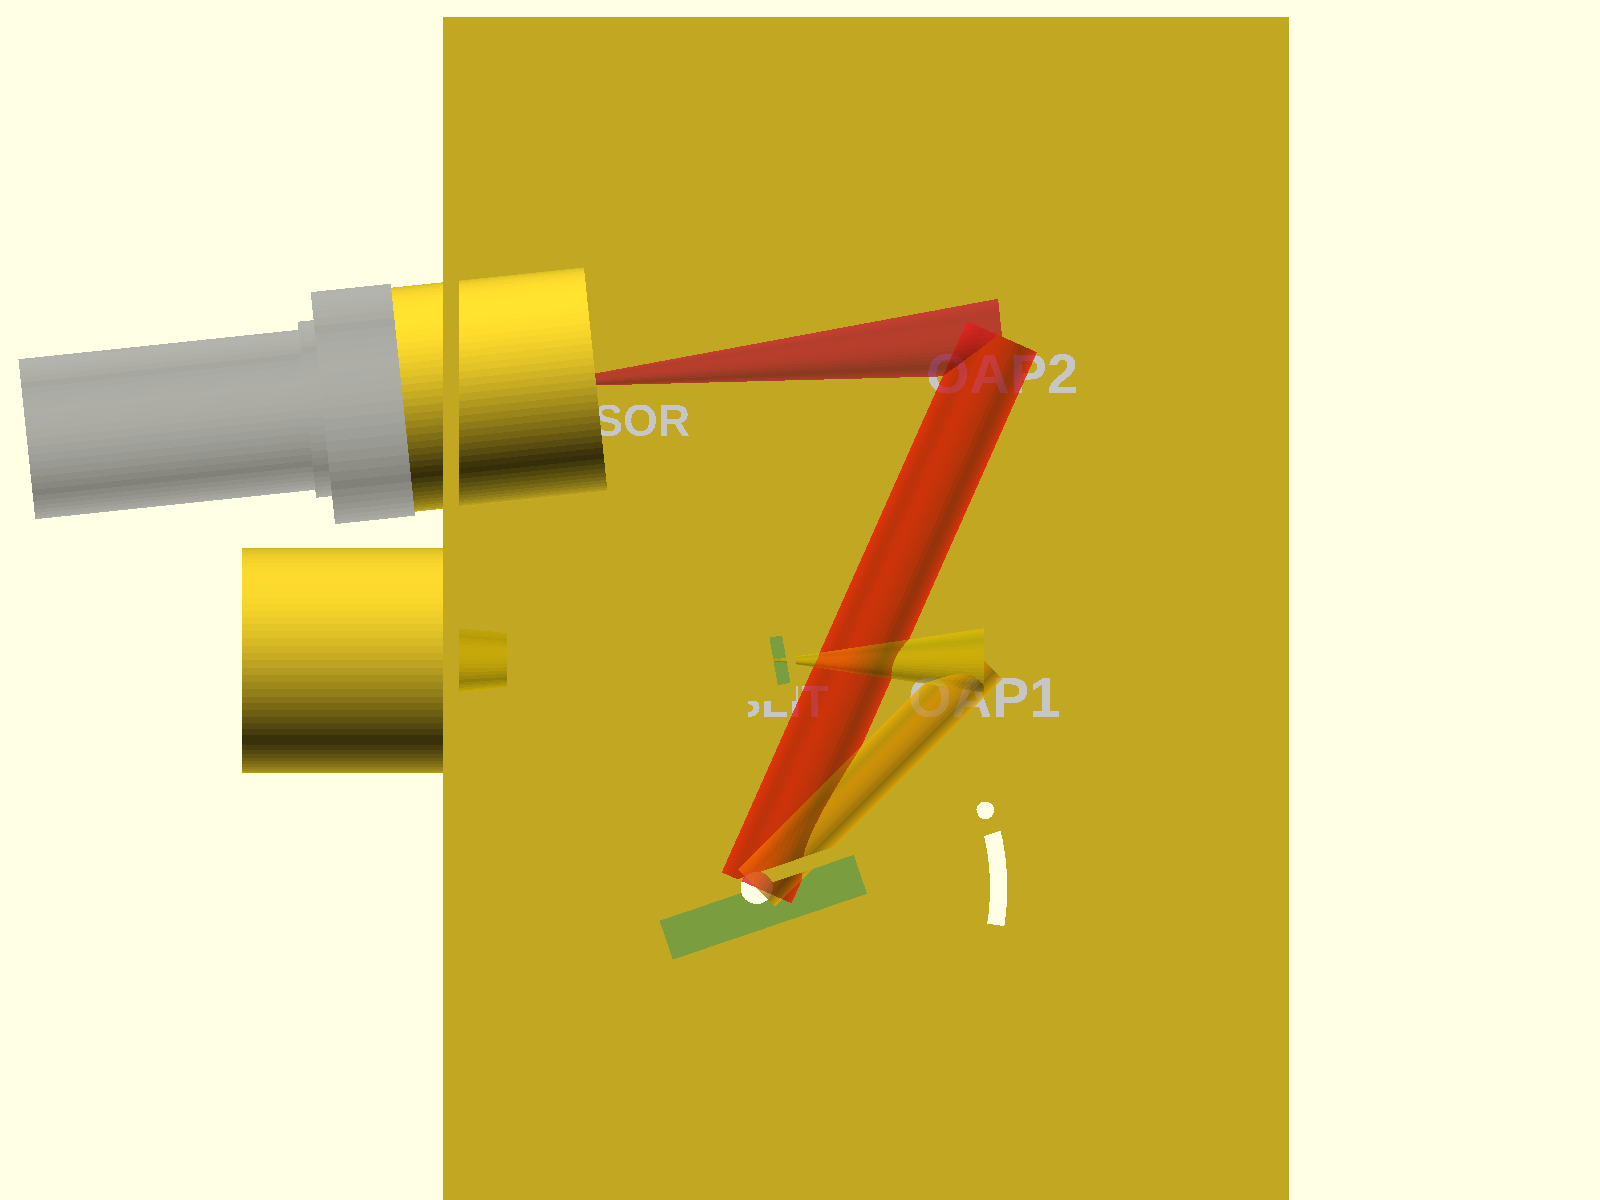
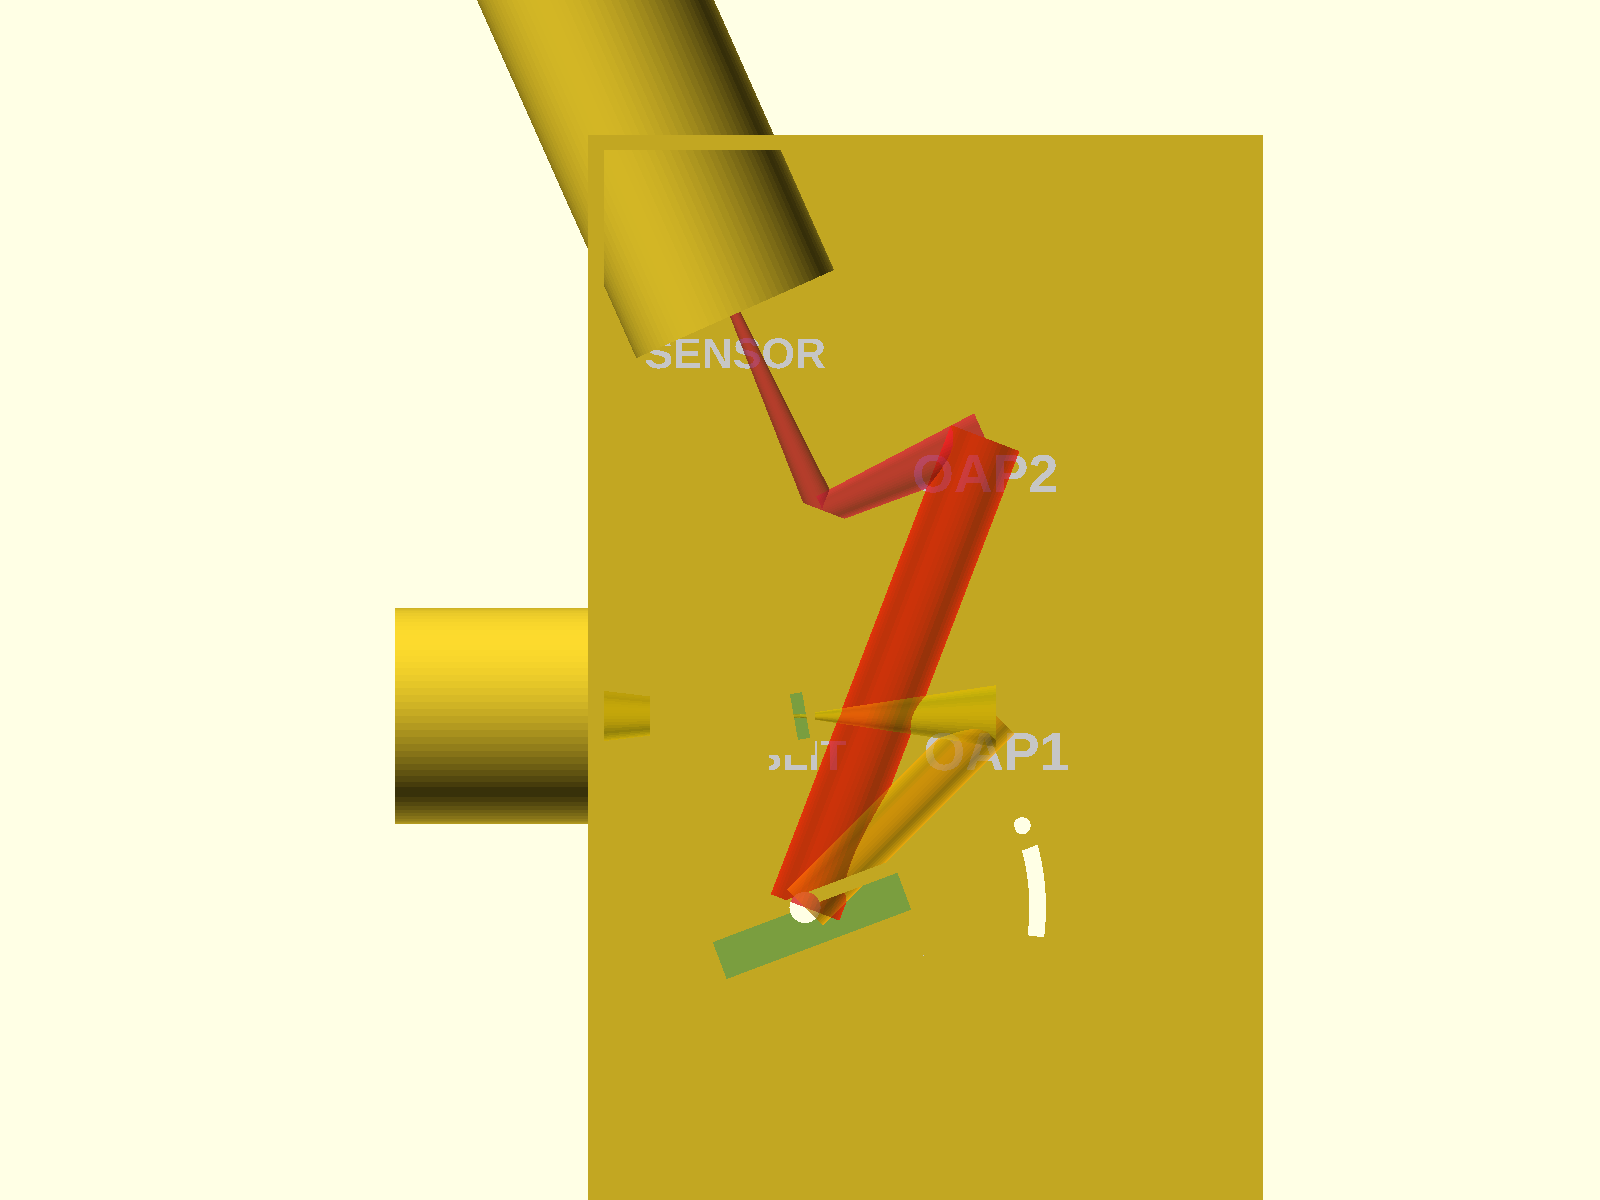
Freeze budget v3 (fold4 flat) + production periscope layout renders
CHOSEN = T_budget_ha dev24/Lg70/Lc130 + fold4(s=46, delta=+90): the
45/45 MPD124+MPD144 pair with one O25.4 silver flat in a FIXED printed
seat (unbounded tilt tolerance, three nylon grub screws, no adjusters).
Guard passes: worst core +4.4mm, fan +1.7mm, edge blur 9.3um, R 27.7k,
~L615 total. Camera exits the top back corner at 114 deg, fully
decoupled from the telescope. body_geom/scad/previews regenerated;
BUDGET.md rev 4, MECH.md updated.

prod_layout.py/scad: raytraced layout visualization of the two-level
production periscope (dev17, Lg315, Lc255, lift2 s=65 h=80) with solid
full-fan-width beams, FSQ-85 OTA, and IMX571 at 17.5mm back focus.
Case CAD deferred at user request.

Changed region(s): [[0.0, 0.0, 0.8125, 1.0]]

diff --git a/design/prod_layout.py b/design/prod_layout.py
@@ -1,0 +1,93 @@
+#!/usr/bin/env python3
+"""Emit prod_layout.scad: raytraced-geometry visualization of the
+two-level production periscope design (FOLDS.md winner) with the FSQ-85
+OTA and the IMX571 camera at 17.5 mm back focus. Elements and SOLID
+full-fan-width light paths; layout render, not the case CAD."""
+import math
+from raytrace import Design, CONFIGS, add, sub, mul, dot, norm
+
+cfg = CONFIGS["B_edmund_30s-45"]
+d = Design(lines_per_mm=2400.0, order=1, dev=17.0, s2=-1.0,
+           Lg=315.0, Lc=255.0, lift2=dict(s=65.0, h=80.0), **cfg)
+d.build(656.28)
+
+BH = 60.0
+
+
+def P(p):   # world (x=vert, y, z) -> model (X=z, Y=y, Z=x+BH)
+    return (p[2], p[1], p[0] + BH)
+
+
+u = 1.0 / (2.0 * 6.9) + 656.28e-6 / 7e-3
+r_col = min(d.rfl1 * u, 0.9 * 50.8 / 2)
+ca, cb = abs(dot(d.c1, d.gr.n)), abs(dot(d.c2, d.gr.n))
+r3 = min(r_col / ca, 25.0) * cb
+r3b = min(r3 + d.Lc * (5e-6 / (d.sigma * cb)), 0.9 * 76.2 / 2)
+QA, QB = d.lift2A[0], d.lift2B[0]
+
+out = ["// AUTO-GENERATED by prod_layout.py",
+       "$fn = 72;",
+       "module beam(a, b, r1, r2, col) { color(col, 0.5) hull() {",
+       "  translate(a) sphere(r1); translate(b) sphere(r2); } }",
+       "module disc(p, n, dia, t, col, alpha = 1.0) {",
+       "  color(col, alpha) translate(p)",
+       "    rotate(a = acos(n[2] / norm(n)), v = (abs(n[0]) + abs(n[1])",
+       "      < 1e-6) ? [1, 0, 0] : [-n[1], n[0], 0])",
+       "    cylinder(h = t, d = dia, center = true); }"]
+
+
+def disc(p_model, n_world, dia, t, col, alpha=1.0):
+    n = (n_world[2], n_world[1], n_world[0])
+    out.append(f"disc([{p_model[0]:.1f},{p_model[1]:.1f},{p_model[2]:.1f}],"
+               f" [{n[0]:.4f},{n[1]:.4f},{n[2]:.4f}], {dia}, {t}, "
+               f"\"{col}\", {alpha});")
+
+
+def beam(a, b, r1, r2, col):
+    pa, pb = P(a), P(b)
+    out.append(f"beam([{pa[0]:.1f},{pa[1]:.1f},{pa[2]:.1f}], "
+               f"[{pb[0]:.1f},{pb[1]:.1f},{pb[2]:.1f}], {r1:.1f}, {r2:.1f},"
+               f" \"{col}\");")
+
+
+# level cue: slim posts under the upper-level elements
+for p in (d.G, d.C2):
+    q = P(p)
+    out.append(f"color(\"dimgray\", 0.6) translate([{q[0]:.0f}, {q[1]:.0f},"
+               f" 0]) cylinder(h = {q[2]-30:.0f}, d = 8);")
+
+# light path
+beam(add(d.S, (0.0, 0.0, -180.0)), d.S, 24.0, 0.6, "gold")
+beam(d.S, d.C1, 0.6, r_col, "gold")
+beam(d.C1, QA, r_col, r_col, "orange")
+beam(QA, QB, r_col, r_col, "mediumpurple")
+beam(QB, d.G, r_col, r_col, "orange")
+beam(d.G, d.C2, r3, r3b, "red")
+beam(d.C2, d.F2, r3b, 1.0, "crimson")
+
+# elements
+disc(P(d.S), (0.0, 0.0, 1.0), 18, 2, "green")
+disc(P(d.C1), norm(sub(norm(sub((0, 0, 0), d.C1)), d.c1)), 50.8, 10,
+     "orangered")
+disc(P(QA), d.lift2A[1], 50.8, 9, "silver")
+disc(P(QB), d.lift2B[1], 50.8, 9, "silver")
+disc(P(d.G), d.gr.n, 55, 9, "royalblue")
+disc(P(d.C2), norm(sub(d.df, d.c2)), 76.2, 12, "orangered")
+
+# FSQ-85 OTA on the entry axis (focal plane = slit)
+for (z0, z1, dia, col) in ((-620, -520, 112, "lightsteelblue"),
+                           (-520, -190, 95, "white"),
+                           (-190, -130, 72, "gainsboro"),
+                           (-130, -88, 64, "silver"),
+                           (-88, -40, 56, "dimgray")):
+    out.append(f"color(\"{col}\") translate([{z0}, 0, {BH}]) "
+               f"rotate([0, 90, 0]) cylinder(h = {z1 - z0}, d = {dia});")
+
+# IMX571 camera: flange 10 mm thick ending 17.5 mm before the sensor,
+# then the 80 mm barrel; sensor plane marked black
+disc(P(d.F2), mul(d.df, -1.0), 26, 2, "black")
+disc(P(add(d.F2, mul(d.df, -12.5))), d.df, 100, 10, "darkslategray")
+disc(P(add(d.F2, mul(d.df, 46.5))), d.df, 80, 108, "dimgray")
+open("prod_layout.scad", "w").write("\n".join(out) + "\n")
+print("written; F2 model", [round(v) for v in P(d.F2)],
+      "G", [round(v) for v in P(d.G)])

diff --git a/design/body_export.py b/design/body_export.py
@@ -14,7 +14,7 @@ from raytrace import Design, CONFIGS, CHOSEN, dot
 
 cfg = CONFIGS[CHOSEN["config"]]
 d = Design(lines_per_mm=2400.0, order=1, dev=CHOSEN["dev"], s2=CHOSEN["s2"],
-           Lg=CHOSEN["Lg"], Lc=CHOSEN["Lc"], **cfg)
+           Lg=CHOSEN["Lg"], Lc=CHOSEN["Lc"], fold4=CHOSEN.get("fold4"), **cfg)
 d.build(656.28)
 
 
@@ -43,7 +43,12 @@ lines = [
     f"c0Ang   = {ang(d.c0):.3f};   // slit -> OAP1 chief",
     f"c1Ang   = {ang(d.c1):.3f};   // OAP1 -> grating (collimated)",
     f"c2Ang   = {ang(d.c2):.3f};   // grating -> OAP2 (diffracted)",
-    f"dfAng   = {ang(d.df):.3f};   // OAP2 -> sensor (focused)",
+    f"df0Ang  = {ang(d.df0):.3f};   // OAP2 -> fold flat (focused)",
+    f"dfAng   = {ang(d.df):.3f};   // final leg -> sensor",
+    f"flat4P  = [{b(d.flat4[0])[0]:.2f}, {b(d.flat4[0])[1]:.2f}];"
+    if d.flat4 else "flat4P = undef;",
+    f"flat4NormAng = {ang(d.flat4[1]):.3f}; // seat face normal"
+    if d.flat4 else "flat4NormAng = undef;",
     f"gratNormAng = {ang(d.gr.n):.3f}; // grating normal at Ha tuning",
     f"rfl1 = {cfg['rfl1']}; rfl2 = {cfg['rfl2']};",
 ]
@@ -56,7 +61,8 @@ tunings = []
 for (label, lam, lpmm) in [("CaK", 393.37, 2400.0), ("Ha", 656.28, 2400.0),
                            ("He1083", 1083.0, 1200.0)]:
     dl = Design(lines_per_mm=lpmm, order=1, dev=CHOSEN["dev"],
-                s2=CHOSEN["s2"], Lg=CHOSEN["Lg"], Lc=CHOSEN["Lc"], **cfg)
+                s2=CHOSEN["s2"], Lg=CHOSEN["Lg"], Lc=CHOSEN["Lc"],
+                fold4=CHOSEN.get("fold4"), **cfg)
     dl.build(lam)
     tunings.append((label, ang(dl.gr.n)))
 lines.append("gratNormAngs = [" +
@@ -69,8 +75,8 @@ lines.append("// tuning detents: " +
 # from the camera corridor. beam3 must cross by = 25, so the vane can only
 # begin downstream of the crossing plus the fan half-width plus margin.
 import mech
-guard_dims = {k: CHOSEN[k] for k in ("colD", "camD", "grat_w",
-                                     "slab1_w", "slab2_w") if k in CHOSEN}
+guard_dims = {k: CHOSEN[k] for k in ("colD", "camD", "grat_w", "slab1_w",
+                                     "slab2_w", "flat4_d") if k in CHOSEN}
 VANE_Y, VANE_T, VANE_END = 25.0, 3.0, 68.0
 gb, c2b2 = b(d.G), bdir(d.c2)
 t_cross = (VANE_Y - gb[1]) / c2b2[1]

diff --git a/design/raytrace.py b/design/raytrace.py
@@ -409,17 +409,20 @@ CONFIGS = {
 }
 
 # Chosen geometry for the CURRENT BUILD. Production broadband design:
-#   config="B_edmund_30s-45", dev=20, s2=-1, Lg=117, Lc=240 -- CORRIDOR
-#   INFEASIBLE per mech.py (MECH.md); production re-freeze pending.
-# Active: Ha-only budget prototype, Thorlabs silver MPD124 (45 deg
-# collimator) + MPD246 (60 deg camera), 7um slit, Shelyak 25mm grating,
-# IMX678 camera. FROZEN 2026-08-02 by mech.py constrained sweep: worst
-# core clearance +3.2mm, fan +0.1mm, edge blur 12.9um (+-0.5nm), exit
-# 6 deg off telescope-parallel at sensor y=70. The extra keys are the
-# mechanical envelope inputs mech.py/body_export.py verify against.
-CHOSEN = dict(config="T_budget_ha_v2", dev=21.0, s2=-1.0,
-              Lg=80.0, Lc=150.0, colD=25.4, camD=50.8,
-              grat_w=25.0, slab1_w=54.0, slab2_w=86.0)
+#   two-floor periscope layout, FOLDS.md (dev 17, Lg 315, Lc 255,
+#   lift2 s=65 h=80) -- CAD started in prod_case.scad, not yet frozen.
+# Active: Ha-only budget prototype v3 (FROZEN 2026-08-02, FOLDS.md):
+# Thorlabs silver MPD124 + MPD144 (45/45) + one O25.4 protected-silver
+# flat 46 mm after OAP2 folding the focused beam +90 deg away from the
+# telescope. Worst core clearance +4.4 mm, fan +1.7 mm, edge blur
+# 9.3 um (+-0.5 nm), R~27.7k slit-limited, ~L467 optics. The flat sits
+# in a FIXED printed seat: fold_tol.py shows its tilt tolerance is
+# unbounded (pure image steering), so it gets no adjusters.
+# Extra keys are the mechanical envelope inputs mech/body_export verify.
+CHOSEN = dict(config="T_budget_ha", dev=24.0, s2=-1.0,
+              Lg=70.0, Lc=130.0, fold4=dict(s=46.0, delta=90.0),
+              colD=25.4, camD=25.4, grat_w=25.0,
+              slab1_w=54.0, slab2_w=54.0, flat4_d=25.4)
 
 LINES = [  # (label, lambda nm, lines/mm, order)
     ("CaK 393", 393.37, 2400.0, 1),

diff --git a/design/mech.py b/design/mech.py
@@ -462,10 +462,11 @@ def build_chosen(lam_nm=656.28):
     """Returns (design, dims) for the CHOSEN geometry."""
     cfg = CONFIGS[CHOSEN["config"]]
     d = Design(lines_per_mm=2400.0, order=1, dev=CHOSEN["dev"],
-               s2=CHOSEN["s2"], Lg=CHOSEN["Lg"], Lc=CHOSEN["Lc"], **cfg)
+               s2=CHOSEN["s2"], Lg=CHOSEN["Lg"], Lc=CHOSEN["Lc"],
+               fold4=CHOSEN.get("fold4"), **cfg)
     d.build(lam_nm)
-    dims = {k: CHOSEN[k] for k in ("colD", "camD", "grat_w",
-                                   "slab1_w", "slab2_w") if k in CHOSEN}
+    dims = {k: CHOSEN[k] for k in ("colD", "camD", "grat_w", "slab1_w",
+                                   "slab2_w", "flat4_d") if k in CHOSEN}
     return d, dims
 
 

diff --git a/design/BUDGET.md b/design/BUDGET.md
@@ -1,10 +1,13 @@
-# Ha-only budget prototype ("sanity build") — rev 3, 2026-08-02
+# Ha-only budget prototype ("sanity build") — rev 4 (v3), 2026-08-02
 
-**GEOMETRY RE-FROZEN 2026-08-02** after the mech.py corridor findings
-(MECH.md): camera mirror swapped MPD144 -> MPD246 (60 deg), asymmetric
-slit tower, 48 mm OAP1 KM plate, auto-placed stray vane. body_export.py
-now passes its interference guard with zero collisions and zero fan
-vignettes. Stray-light budget: STRAYLIGHT.md.
+**v3 FROZEN 2026-08-02** (FOLDS.md study): back to the cheap 45/45 pair
+(MPD124 + MPD144) plus one O25.4 protected-silver fold flat 46 mm after
+OAP2, folding the focused beam +90 deg away from the telescope. The
+flat sits in a FIXED printed seat with three nylon-tip grub screws: its
+tilt tolerance is unbounded (fold_tol.py), so no adjusters. Supersedes
+the interim MPD246 60-deg freeze (rev 3), which cost more and imaged
+worse. body_export.py guard: zero collisions, zero fan vignettes.
+Stray-light budget: STRAYLIGHT.md. Thermal: THERMAL.md.
 
 Goal: cheapest build that validates the all-reflective concept end-to-end
 (geometry, printed mounts, rotator, alignment flow, GhostSun integration)
@@ -15,7 +18,8 @@ using owned parts wherever possible. Active CHOSEN config: T_budget_ha_v2.
 | item | part | price |
 |---|---|---|
 | collimator | Thorlabs MPD124-P01 (Ø25.4, 45°, RFL 50.8, prot. silver) | £197 |
-| camera mirror | Thorlabs MPD246-P01 (Ø50.8, 60°, RFL 101.6, prot. silver) | £353 |
+| camera mirror | Thorlabs MPD144-P01 (Ø25.4, 45°, RFL 101.6, prot. silver) | £197 |
+| fold flat | Thorlabs PF10-03-P01 (Ø25.4, lambda/10, prot. silver) | £73 |
 | 4x 100 TPI fine adjusters | Thorlabs | ~£80 |
 | balls, springs, dowel, inserts, screws | — | ~£25 |
 | M42 helical focuser | generic | ~£40 |
@@ -29,23 +33,24 @@ parallel at 70 mm lateral separation and passes the interference check.)
 Owned/printed: Shelyak 2400 l/mm 25 mm grating, 7 um slit, ToupTek
 G3M678M (IMX678), FSQ-85 @ 65 mm, printed body + mounts + rotor (ASA).
 
-## Geometry (CHOSEN, frozen by mech.py sweep 2026-08-02)
+## Geometry (CHOSEN v3, frozen by fold_study.py sweep 2026-08-02)
 
-MPD124 (45 deg) + MPD246 (60 deg), dev = 21 deg off-Littrow, s2 = -1,
-Lg = 80, Lc = 150. alpha 63.7 / beta 42.7, anamorphism 0.603. Mag 2.0:
-slit image 14.0 um spatial / 8.4 um dispersion; disk image 8.4 mm on the
-7.68 mm IMX678 axis -> poles clip ~9% (unchanged; IMX571 path un-clips).
-Worst core-beam clearance +3.2 mm (beam3 vs slit tower); diffraction-fan
-wings graze the tower blade at +0.1 mm by design -> flock that face
-(STRAYLIGHT.md). Camera exits at -174 deg (6 deg off telescope-parallel),
-sensor at body (-46, 70).
+MPD124 + MPD144 (45/45), dev = 24 deg off-Littrow, s2 = -1, Lg = 70,
+Lc = 130, fold flat at 46 mm after OAP2 folding +90 deg. alpha 65.6 /
+beta 41.6, anamorphism 0.552. Mag 2.0: slit image 14.0 um spatial /
+7.7 um dispersion; disk image 8.4 mm on the 7.68 mm IMX678 axis ->
+poles clip ~9% (unchanged; IMX571 production path un-clips).
+Worst core-beam clearance +4.4 mm; worst fan +1.7 mm (no grazes this
+time; flock the tower blade anyway). Sensor at body (-17, 104), camera
+exits through the top back corner at 114 deg: fully decoupled from the
+telescope side.
 
 ## Performance at Ha (+-0.5 nm window, RMS radii)
 
-- Blur: 2.6 um (center) / 12.9 um (disk edge) / ~30 um (slit end) vs
-  14 um slit image. The 45/60 pair gives up ~4 um at the edge vs the
-  collision-impossible 45/45; center of disk is unaffected.
-- R ~ 26,000 slit-limited (0.025 nm) — resolves the 0.05 nm core.
+- Blur: 2.0 um (center) / 9.3 um (disk edge) / ~20 um (slit end) vs
+  14 um slit image.
+- R ~ 27,700 slit-limited (0.024 nm) — resolves the 0.05 nm core.
+- One extra silver reflection: ~2.5% light, ~0.15% veil (2 nm flat).
 - Throughput: silver^2 (~95%) x grating 88% ~ 84% net — HIGHER than the
   production Al design at Ha (81% x 94% ~ 76%). The short collimator's
   tight fan is why the 25 mm grating stops mattering.
@@ -58,7 +63,7 @@ sensor at body (-46, 70).
 - Ha only: silver kills Ca K (~25% net at 393). He I 1083 remains
   possible later (silver ~98% there; needs the 1200 l/mm grating and the
   10 um slit; collimator fan is marginal at Ø25.4 — check before buying).
-- Slit ends soft (~30 um) — full-disk work lives inside the good field.
+- Slit ends soft (~20 um) — full-disk work lives inside the good field.
 - Disk pole clip ~9% on IMX678.
 
 ## Upgrade path

diff --git a/design/MECH.md b/design/MECH.md
@@ -101,6 +101,10 @@ The budget prototype was re-frozen with path 1 plus the camera swap:
   corridor is tighter (bigger fan); re-run the constrained sweep with
   production dims before ordering Edmund glass.
 
+## v3 freeze applied (2026-08-02): the budget body now IS the fold4
+layout (CHOSEN in raytrace.py, BUDGET.md rev 4); the sections below
+record how it was found.
+
 ## Fold-flat escape (2026-08-02, later the same day)
 
 FOLDS.md: plane fold mirrors turn out to dissolve both remaining
